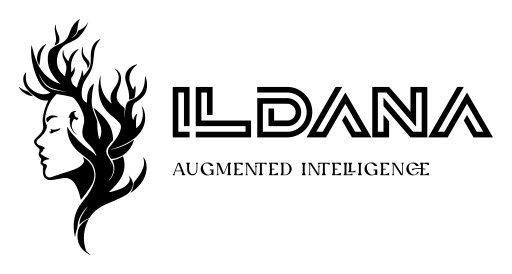
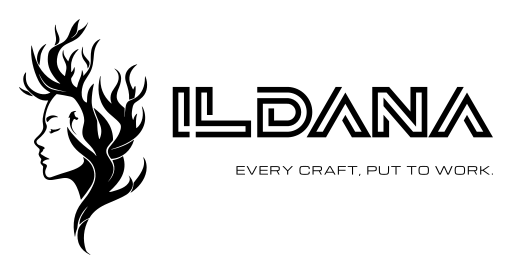
Brand: the lockup now carries the tagline Every craft, put to work

Changed region(s): [[0.3125, 0.5839, 0.9688, 0.6423]]

diff --git a/README.md b/README.md
@@ -2,7 +2,7 @@
   <a href="https://ildana.ai">
     <picture>
       <source media="(prefers-color-scheme: dark)" srcset=".github/assets/ildana-lockup-white-512.png">
-      <img src=".github/assets/ildana-lockup-black-512.png" alt="Ildana — Augmented Intelligence" width="260">
+      <img src=".github/assets/ildana-lockup-black-512.png" alt="Ildana — Every craft, put to work." width="260">
     </picture>
   </a>
 </p>
@@ -198,7 +198,7 @@ repository — copies obtained elsewhere may have been modified.
   <a href="https://ildana.ai">
     <picture>
       <source media="(prefers-color-scheme: dark)" srcset=".github/assets/ildana-lockup-white-512.png">
-      <img src=".github/assets/ildana-lockup-black-512.png" alt="Ildana — Augmented Intelligence" width="200">
+      <img src=".github/assets/ildana-lockup-black-512.png" alt="Ildana — Every craft, put to work." width="200">
     </picture>
   </a>
 </p>
